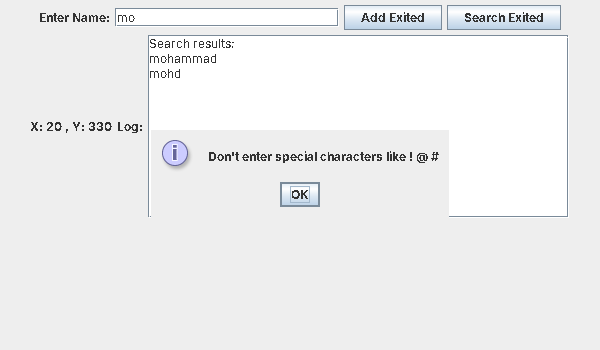
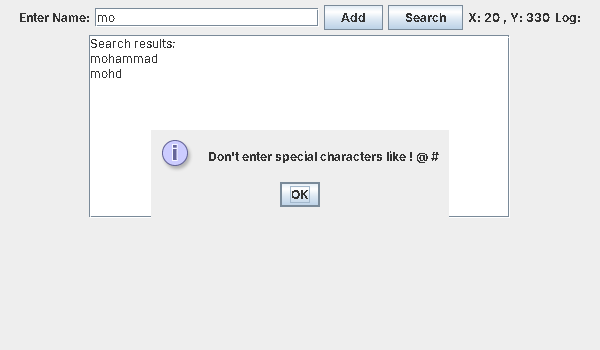
Lab 5: use MouseListener, MouseMotionListener and KeyListener as the handout says
The solution now implements the three listener interfaces in full (no adapters, no ActionListener); clicks are handled in mouseClicked and the button text resets on exit. Explanations, demo, quiz and screenshots updated to match.

Claude-Session: https://claude.ai/code/session_01TWGdni2W9SP9TGQxGu5pif

diff --git a/L05-Other-Events/index.html b/L05-Other-Events/index.html
@@ -1442,7 +1442,7 @@ slider.addChangeListener(new ChangeListener() {
   <div class="slide" id="lab5-solution">
     <p class="added">Added · Full solution (Parts 1–4)</p>
     <h3>The full solution</h3>
-    <p>One NetBeans project <code>Lab5</code>, package <code>com.mycompany.lab5</code>, one class with everything inside <code>main</code>, like the slide examples. I ran it and checked every part: hovering, the coordinates, both click messages, blocking <code>!</code> and <code>@</code>, and the live search. Typing "m" and then "mo" gives exactly the handout's results.</p>
+    <p>One NetBeans project <code>Lab5</code>, package <code>com.mycompany.lab5</code>, one class with everything inside <code>main</code>, like the slide examples. It uses exactly the listeners the handout names: <b>MouseListener</b>, <b>MouseMotionListener</b> and <b>KeyListener</b>, each written out in full (no adapter classes, and no ActionListener, which this handout never asks for). I ran it and checked every part: hovering, the coordinates, both click messages, blocking <code>!</code> and <code>@</code>, and the live search. Typing "m" and then "mo" gives exactly the handout's results.</p>
     <div class="code"><span class="code-label">Lab5.java</span><pre class="java">package com.mycompany.lab5;
 
 import javax.swing.*;
@@ -1453,6 +1453,7 @@ import java.util.ArrayList;
 public class Lab5 {
 
     public static void main(String[] args) {
+        // Part 1: GUI Components and Design
         JFrame frame = new JFrame("Search and Add");
         JPanel panel = new JPanel();
 
@@ -1465,11 +1466,12 @@ public class Lab5 {
         JTextArea logArea = new JTextArea(12, 38);
         JScrollPane scroll = new JScrollPane(logArea);
 
+        // Part 4: ArrayList to store names
         ArrayList&lt;String&gt; names = new ArrayList&lt;&gt;();
         Color normalColor = addButton.getBackground();
 
-        // Part 2.1: MouseListener on both buttons
-        MouseAdapter hover = new MouseAdapter() {
+        // Part 2.1 + 2.3: MouseListener on both buttons
+        MouseListener buttonListener = new MouseListener() {
             public void mouseEntered(MouseEvent e) {
                 JButton b = (JButton) e.getSource();
                 String name = (b == addButton) ? "Add" : "Search";
@@ -1481,39 +1483,43 @@ public class Lab5 {
                 JButton b = (JButton) e.getSource();
                 String name = (b == addButton) ? "Add" : "Search";
                 b.setBackground(normalColor);
-                b.setText(name + " Exited");
+                b.setText(name);
+            }
+
+            public void mouseClicked(MouseEvent e) {
+                JButton b = (JButton) e.getSource();
+                if (b == addButton) {
+                    String name = nameField.getText().trim();
+                    if (!name.isEmpty()) {
+                        names.add(name);
+                    }
+                    JOptionPane.showMessageDialog(frame, "You clicked the Add button");
+                } else {
+                    JOptionPane.showMessageDialog(frame, "You clicked the Search button");
+                }
+            }
+
+            public void mousePressed(MouseEvent e) {
+            }
+
+            public void mouseReleased(MouseEvent e) {
             }
         };
-        addButton.addMouseListener(hover);
-        searchButton.addMouseListener(hover);
+        addButton.addMouseListener(buttonListener);
+        searchButton.addMouseListener(buttonListener);
 
-        // Part 2.2: MouseMotionListener shows the mouse position
-        panel.addMouseMotionListener(new MouseMotionAdapter() {
+        // Part 2.2: MouseMotionListener shows the mouse coordinates
+        panel.addMouseMotionListener(new MouseMotionListener() {
             public void mouseMoved(MouseEvent e) {
                 mouseLabel.setText("X: " + e.getX() + " , Y: " + e.getY());
             }
-        });
 
-        // Part 2.3 + Part 4: what happens when a button is clicked
-        addButton.addActionListener(new ActionListener() {
-            public void actionPerformed(ActionEvent e) {
-                String name = nameField.getText().trim();
-                if (!name.isEmpty()) {
-                    names.add(name);
-                    nameField.setText("");
-                }
-                JOptionPane.showMessageDialog(frame, "You clicked the Add button");
-            }
-        });
-
-        searchButton.addActionListener(new ActionListener() {
-            public void actionPerformed(ActionEvent e) {
-                JOptionPane.showMessageDialog(frame, "You clicked the Search button");
+            public void mouseDragged(MouseEvent e) {
             }
         });
 
         // Part 3 + Part 4: KeyListener on the text field
-        nameField.addKeyListener(new KeyAdapter() {
+        nameField.addKeyListener(new KeyListener() {
             public void keyTyped(KeyEvent e) {
                 char c = e.getKeyChar();
                 if (!Character.isLetterOrDigit(c) &amp;&amp; c != ' ' &amp;&amp; !Character.isISOControl(c)) {
@@ -1530,6 +1536,9 @@ public class Lab5 {
                         logArea.append(n + "\n");
                     }
                 }
+            }
+
+            public void keyPressed(KeyEvent e) {
             }
         });
 
@@ -1549,7 +1558,7 @@ public class Lab5 {
 }</pre></div>
     <div class="fig-row">
       <figure style="flex:1 1 14rem"><div class="plate"><img src="img/sol_lab5_form.png" width="300" loading="lazy" alt="The solution&#x27;s window at start: Enter Name field, Add and Search buttons, X: 20 , Y: 330, Log: and an empty text area."></div><figcaption>At start.</figcaption></figure>
-      <figure style="flex:1 1 14rem"><div class="plate"><img src="img/sol_lab5_hover.png" width="300" loading="lazy" alt="The mouse is on Search: green Search Entered button, Add Exited, and the coordinates label wrapped down next to Log:."></div><figcaption>Mouse on Search (Part 2).</figcaption></figure>
+      <figure style="flex:1 1 14rem"><div class="plate"><img src="img/sol_lab5_hover.png" width="300" loading="lazy" alt="The mouse is on Search: green Search Entered button, Add back to its normal text, and Log: wrapped down next to the text area."></div><figcaption>Mouse on Search (Part 2).</figcaption></figure>
       <figure style="flex:1 1 14rem"><div class="plate"><img src="img/sol_lab5_search.png" width="300" loading="lazy" alt="Enter Name holds mo and the text area shows Search results: mohammad, mohd."></div><figcaption>Typing "mo" after adding six names (Part 4).</figcaption></figure>
       <figure style="flex:1 1 14rem"><div class="plate"><img src="img/sol_lab5_special.png" width="300" loading="lazy" alt="A message dialog over the window: Don&#x27;t enter special characters like ! @ #."></div><figcaption>Typing ! (Part 3).</figcaption></figure>
     </div>
@@ -1570,38 +1579,49 @@ JTextArea logArea = new JTextArea(12, 38);
 JScrollPane scroll = new JScrollPane(logArea);</pre></dt><dd><b>Part 1.</b> Every component in the screenshot, in order. <code>20</code> is the field's width in columns; <code>12, 38</code> are the text area's rows and columns. The scroll pane gives the Log its border and scroll bars when the list gets long.</dd></div>
 <div><dt><pre class="java">ArrayList&lt;String&gt; names = new ArrayList&lt;&gt;();
 Color normalColor = addButton.getBackground();</pre></dt><dd><b>Part 4:</b> "Create an ArrayList to store names". <code>normalColor</code> saves the buttons' default colour so it can be put back when the mouse leaves.</dd></div>
-<div><dt><pre class="java">MouseAdapter hover = new MouseAdapter() {
+<div><dt><pre class="java">MouseListener buttonListener = new MouseListener() {
     public void mouseEntered(MouseEvent e) { ... }
     public void mouseExited(MouseEvent e) { ... }
+    public void mouseClicked(MouseEvent e) { ... }
+    public void mousePressed(MouseEvent e) {
+    }
+    public void mouseReleased(MouseEvent e) {
+    }
 };
-addButton.addMouseListener(hover);
-searchButton.addMouseListener(hover);</pre></dt><dd><b>Part 2.1:</b> "Apply MouseListener to both buttons". <code>MouseAdapter</code> is a class that already implements <code>MouseListener</code> with empty methods, so you only write the two you need (Lecture 6). One listener object is added to both buttons.</dd></div>
+addButton.addMouseListener(buttonListener);
+searchButton.addMouseListener(buttonListener);</pre></dt><dd><b>Part 2.1:</b> "Apply MouseListener to both buttons". This is an anonymous class that implements the <code>MouseListener</code> interface (Lecture 6). An interface makes you write <b>all five</b> of its methods, so <code>mousePressed</code> and <code>mouseReleased</code> are there but empty. The same listener object is added to both buttons.</dd></div>
 <div><dt><pre class="java">JButton b = (JButton) e.getSource();
 String name = (b == addButton) ? "Add" : "Search";</pre></dt><dd><code>getSource()</code> returns the button the mouse is on, cast to <code>JButton</code>. The ternary picks its name, so one listener works for both buttons.</dd></div>
 <div><dt><pre class="java">b.setBackground(Color.GREEN);
 b.setText(name + " Entered");</pre></dt><dd><b>"When the mouse enters a button: change its background color, change its text (e.g., "Add Entered")".</b></dd></div>
 <div><dt><pre class="java">b.setBackground(normalColor);
-b.setText(name + " Exited");</pre></dt><dd><b>"When the mouse exits: reset color and text".</b> The colour goes back to the saved default. The text becomes "Add Exited", as in the handout's screenshots; if your TA wants the original text back instead, use <code>b.setText(name);</code>.</dd></div>
-<div><dt><pre class="java">panel.addMouseMotionListener(new MouseMotionAdapter() {
-    public void mouseMoved(MouseEvent e) {
-        mouseLabel.setText("X: " + e.getX() + " , Y: " + e.getY());
-    }
-});</pre></dt><dd><b>Part 2.2:</b> "Display the mouse coordinates (X, Y) in the label when the mouse moves". <code>mouseMoved</code> runs on every movement (without a button pressed; dragging calls <code>mouseDragged</code>). <code>getX()</code> and <code>getY()</code> are measured from the panel's top-left corner.</dd></div>
-<div><dt><pre class="java">addButton.addActionListener(new ActionListener() {
-    public void actionPerformed(ActionEvent e) {
+b.setText(name);</pre></dt><dd><b>"When the mouse exits: reset color and text".</b> The colour goes back to the saved default and the text back to "Add" or "Search". (The handout's screenshots show "Add Exited" at this point; if your TA wants that, write <code>b.setText(name + " Exited");</code> instead.)</dd></div>
+<div><dt><pre class="java">public void mouseClicked(MouseEvent e) {
+    JButton b = (JButton) e.getSource();
+    if (b == addButton) {
         String name = nameField.getText().trim();
         if (!name.isEmpty()) {
             names.add(name);
-            nameField.setText("");
         }
         JOptionPane.showMessageDialog(frame, "You clicked the Add button");
-    }
-});</pre></dt><dd><b>Part 2.3:</b> "Show a message dialog indicating which button was clicked", and <b>Part 4:</b> "When the user clicks Add: store the entered name in the list". <code>trim()</code> removes spaces at the ends, so an empty box adds nothing. The box is emptied, ready for the next name.</dd></div>
-<div><dt><pre class="java">searchButton.addActionListener(new ActionListener() {
-    public void actionPerformed(ActionEvent e) {
+    } else {
         JOptionPane.showMessageDialog(frame, "You clicked the Search button");
     }
-});</pre></dt><dd><b>Part 2.3</b> for the Search button. The handout gives Search no other job: searching happens automatically while typing (Part 4).</dd></div>
+}</pre></dt><dd><b>Part 2.3:</b> "When a button is clicked: show a message dialog indicating which button was clicked". This is in the handout's mouse part, so it goes in the MouseListener's <code>mouseClicked</code>. <b>Part 4:</b> "When the user clicks Add: store the entered name in the list": the Add branch adds the name to the ArrayList first. <code>trim()</code> removes spaces at the ends, and the <code>isEmpty()</code> check stops a blank name from being stored.</dd></div>
+<div><dt><pre class="java">panel.addMouseMotionListener(new MouseMotionListener() {
+    public void mouseMoved(MouseEvent e) {
+        mouseLabel.setText("X: " + e.getX() + " , Y: " + e.getY());
+    }
+
+    public void mouseDragged(MouseEvent e) {
+    }
+});</pre></dt><dd><b>Part 2.2:</b> "Apply MouseMotionListener: display the mouse coordinates (X, Y) in the label when the mouse moves". The interface has two methods: <code>mouseMoved</code> runs on every movement with no button pressed, and <code>mouseDragged</code> (left empty) runs when a button is held down. <code>getX()</code> and <code>getY()</code> are measured from the panel's top-left corner.</dd></div>
+<div><dt><pre class="java">nameField.addKeyListener(new KeyListener() {
+    public void keyTyped(KeyEvent e) { ... }
+    public void keyReleased(KeyEvent e) { ... }
+    public void keyPressed(KeyEvent e) {
+    }
+});</pre></dt><dd><b>Part 3:</b> "Apply KeyListener to the TextField". The <code>KeyListener</code> interface has three methods. <code>keyTyped</code> does Part 3, <code>keyReleased</code> does the Part 4 search, and <code>keyPressed</code> is left empty.</dd></div>
 <div><dt><pre class="java">public void keyTyped(KeyEvent e) {
     char c = e.getKeyChar();
     if (!Character.isLetterOrDigit(c) &amp;&amp; c != ' ' &amp;&amp; !Character.isISOControl(c)) {
@@ -1632,14 +1652,15 @@ frame.setVisible(true);</pre></dt><dd>Adds the components in the screenshot's or
     <h3>Good to know for this lab</h3>
     <ul class="pts">
       <li><b>The coordinates only change over the empty grey area.</b> Buttons, the text field and the text area have their own mouse listeners, so Java sends the mouse events to them instead of the panel. The handout's numbers (X: 5, Y: 2 and so on) come from the panel's empty space too.</li>
-      <li><b>MouseAdapter or MouseListener?</b> Both count as "applying a MouseListener": <code>addMouseListener</code> takes either. If you write <code>new MouseListener()</code> yourself, Java makes you include all five methods (<code>mouseClicked</code>, <code>mousePressed</code>, <code>mouseReleased</code>, <code>mouseEntered</code>, <code>mouseExited</code>), even empty ones. The same goes for <code>KeyAdapter</code> (three methods) and <code>MouseMotionAdapter</code> (two).</li>
+      <li><b>Why the empty methods?</b> <code>MouseListener</code> (5 methods), <code>MouseMotionListener</code> (2) and <code>KeyListener</code> (3) are interfaces, and a class that implements an interface must write every one of its methods, even the ones it doesn't use. Leave out an empty one and NetBeans shows an error.</li>
+      <li><b>mouseClicked needs a clean click.</b> It runs only when the mouse button is pressed and released in the same spot. If the mouse moves while you click, there is no click event and no message; just click again.</li>
       <li><b>Local variables inside anonymous classes</b> must never be given a new value (they are "effectively final"). That is why the name is read inside each listener instead of being kept in a variable that changes.</li>
     </ul>
   </div>
 
   <div class="demo" id="sa">
     <div class="demo-head"><h3>Try it: Search and Add</h3><span class="added">Added</span></div>
-    <p>Move the mouse over the grey area (or tap it), hover the buttons, add a few names, then type part of a name. Try typing <code>!</code>, <code>@</code> or <code>#</code> too.</p>
+    <p>Move the mouse over the grey area (or tap it) and hover the buttons. Type a name and click Add; clear the box and add a few more, then type part of a name. Try typing <code>!</code>, <code>@</code> or <code>#</code> too.</p>
     <div class="win" style="max-width:36rem"><div class="win-bar"><span>Search and Add</span><i>–□×</i></div>
       <div class="win-body" id="saPanel" style="position:relative;display:flex;flex-wrap:wrap;gap:.4rem .5rem;align-items:center;justify-content:center;align-content:flex-start;min-height:15rem">
         <label for="saName" style="font-weight:700">Enter Name:</label>
@@ -2344,7 +2365,7 @@ if(result == JOptionPane.YES_OPTION){
 
 </main>
 
-<script type="application/json" id="guide-data">{"key": "cs254-l5-done", "quizzes": {"window": [{"q": "Which window method can stop the window from closing (e.g. ask \"Are you sure?\")?", "o": ["windowClosing", "windowClosed", "windowDeactivated", "windowIconified"], "a": 0, "e": "Slide 10."}, {"q": "How many methods does WindowListener have?", "o": ["7", "3", "5", "1"], "a": 0, "e": "Slides 4 and 8."}, {"q": "Why use WindowAdapter instead of WindowListener?", "o": ["You only override the methods you need", "It's faster", "It works on JButton too", "It has more methods"], "a": 0, "e": "Slides 5 and 7."}, {"q": "A class extends WindowAdapter. Can it also extend JFrame?", "o": ["No, Java allows only one superclass", "Yes", "Only if JFrame is abstract", "Only with implements"], "a": 0, "e": "Slide 7: a class extending an adapter cannot extend another class."}, {"q": "Clicking the Minimize button fires…", "o": ["windowIconified", "windowDeiconified", "windowClosed", "windowOpened"], "a": 0, "e": "Slide 12."}, {"q": "Switching to the window with Alt+Tab fires…", "o": ["windowActivated", "windowDeiconified", "windowOpened", "windowClosing"], "a": 0, "e": "Slide 11."}], "key": [{"q": "Pressing and releasing Shift alone fires…", "o": ["keyPressed and keyReleased only", "keyTyped only", "all three", "nothing"], "a": 0, "e": "Slides 16–17: keyTyped only fires for character keys."}, {"q": "Which method is best for detecting the right-arrow key?", "o": ["keyPressed with getKeyCode() == KeyEvent.VK_RIGHT", "keyTyped with getKeyChar() == '→'", "actionPerformed", "focusGained"], "a": 0, "e": "Slides 15 and 18."}, {"q": "Which abstract class implements KeyListener with empty bodies?", "o": ["KeyAdapter", "KeyEvent", "InputEvent", "KeyStroke"], "a": 0, "e": "Slide 13."}, {"q": "In KeyDemo, why is the text area disabled?", "o": ["So the frame keeps the keyboard focus and receives the key events", "To hide it", "Text areas can't show key info otherwise", "To make it bold"], "a": 0, "e": "Slide 19: addKeyListener(this) is on the frame."}, {"q": "Which method tells you if Ctrl or Shift was held?", "o": ["getModifiersEx()", "getKeyChar()", "isActionKey()", "getSource()"], "a": 0, "e": "Slide 15: use *_MASK with it."}], "focus": [{"q": "Focus is…", "o": ["the current target of keyboard input", "the window size", "the selected list item", "the mouse position"], "a": 0, "e": "Slide 22."}, {"q": "In the focus example, what happens to a text field when it gains focus?", "o": ["Its background becomes LIGHT_GRAY", "Its text is cleared", "It becomes disabled", "It turns red"], "a": 0, "e": "Slide 23."}, {"q": "When does a ComponentEvent occur?", "o": ["When a component is resized, moved, shown or hidden", "When a key is pressed", "When text changes", "When a list selection changes"], "a": 0, "e": "Slide 24."}], "listsel": [{"q": "Which method do you write in a ListSelectionListener?", "o": ["valueChanged", "actionPerformed", "itemStateChanged", "stateChanged"], "a": 0, "e": "Slide 25."}, {"q": "Why check <code>!evt.getValueIsAdjusting()<\/code>?", "o": ["To react once, after the series of selection changes finishes", "To check if the list is editable", "To prevent a crash on empty lists", "To allow multiple selection"], "a": 0, "e": "Slide 26."}, {"q": "Is valueChanged called if the user clicks an item that's already selected?", "o": ["No", "Yes, every click", "Only with SINGLE_SELECTION", "Only on double-click"], "a": 0, "e": "Slide 26."}, {"q": "In ListTransferFrame, selecting a state already in the right list…", "o": ["removes it from the right list", "adds it twice", "does nothing", "clears both lists"], "a": 0, "e": "Slide 28: contains → removeElement, else addElement."}], "more": [{"q": "Which DocumentListener method is never called for a JTextField?", "o": ["changedUpdate", "insertUpdate", "removeUpdate", "All are called"], "a": 0, "e": "Slide 30."}, {"q": "How do you attach a DocumentListener to a JTextField?", "o": ["field.getDocument().addDocumentListener(...)", "field.addDocumentListener(...)", "field.addActionListener(...)", "new Document(field)"], "a": 0, "e": "Slide 29."}, {"q": "ItemListener is used with…", "o": ["JCheckBox and JComboBox", "JFrame", "JTextArea", "JLabel"], "a": 0, "e": "Slide 31."}, {"q": "Which method tells you whether an item was selected or deselected?", "o": ["getStateChange()", "getItem()", "getSource()", "isAdjusting()"], "a": 0, "e": "Slide 32: compare with ItemEvent.SELECTED / DESELECTED."}, {"q": "Which listener does a JSlider use?", "o": ["ChangeListener", "ActionListener", "ItemListener", "DocumentListener"], "a": 0, "e": "Slide 33."}], "lab5": [{"q": "Which method runs when the mouse pointer moves onto a button?", "o": ["mouseEntered", "mouseMoved", "mouseClicked", "mousePressed"], "a": 0, "e": "MouseListener.mouseEntered; mouseExited runs when it leaves."}, {"q": "Which listener shows the X and Y position while the mouse moves (no button pressed)?", "o": ["MouseMotionListener, in mouseMoved", "MouseMotionListener, in mouseDragged", "MouseListener, in mouseEntered", "ActionListener"], "a": 0, "e": "mouseDragged is for moving with a button held down."}, {"q": "In <code>keyTyped<\/code>, how do you stop a typed <code>!<\/code> from appearing in the text field?", "o": ["e.consume()", "return;", "nameField.setText(\"\")", "e.getKeyChar() = ' '"], "a": 0, "e": "consume() cancels the key event, so the character is never inserted."}, {"q": "Why does the live search run in <code>keyReleased<\/code> instead of <code>keyTyped<\/code>?", "o": ["In keyTyped the new character isn't in the field yet", "keyTyped doesn't work on JTextField", "keyReleased runs before keyTyped", "keyTyped can't read the text"], "a": 0, "e": "By the time the key is released, getText() includes the new letter."}, {"q": "Typing \"m\" shows Ahmad, Omar, Samer, Adam, mohammad and mohd. Which check gives that?", "o": ["n.toLowerCase().contains(text)", "n.startsWith(text)", "n.equals(text)", "n.endsWith(text)"], "a": 0, "e": "Every one of those names contains an m somewhere; startsWith would only find mohammad and mohd."}], "lab5x": [{"q": "In Lab 5, what does <code>e.consume()<\/code> in keyTyped do?", "o": ["Stops the typed character from reaching the text field", "Clears the field", "Closes the window", "Selects all text"], "a": 0, "e": "It cancels the key event, so @ and # never appear."}, {"q": "<code>(e) -&gt; { ... }<\/code> passed to addListSelectionListener is a…", "o": ["lambda expression", "generic type", "anonymous array", "constructor"], "a": 0, "e": "A short way to create an object of a one-method interface."}, {"q": "Why does the country ItemListener check <code>ItemEvent.SELECTED<\/code>?", "o": ["A combo-box change fires DESELECTED then SELECTED; this reacts once", "SELECTED is the only event a combo fires", "To ignore keyboard input", "To check the policy box"], "a": 0, "e": "Slide 32 and the Lab 5 code."}, {"q": "Why can Cancel crash the Lab 5 program?", "o": ["clearSelection() fires valueChanged with a null selection, and switch(null) throws NullPointerException", "Cancel has no listener", "The frame closes", "The password field is null"], "a": 0, "e": "Add if (Selected == null) return; at the start of the lambda."}]}, "flashcards": [["Adapter class", "Implements a listener interface with empty methods, so you override only what you need: WindowAdapter, KeyAdapter, FocusAdapter, MouseAdapter, ComponentAdapter.", "Slides 5, 7"], ["Listener vs Adapter", "Listener: interface, implement ALL methods, can still extend another class. Adapter: class, override only needed methods, uses up your one superclass.", "Slide 7"], ["WindowListener (7)", "windowOpened, windowClosing, windowClosed, windowIconified, windowDeiconified, windowActivated, windowDeactivated.", "Slides 4, 8"], ["windowClosing vs windowClosed", "Closing: user clicks X; you can cancel. Closed: already closed and released; for cleanup.", "Slide 10"], ["windowDeiconified vs windowActivated", "Deiconified: restored from minimised. Activated: gains focus (click or Alt+Tab).", "Slide 11"], ["windowIconified vs windowDeactivated", "Iconified: minimised to the taskbar. Deactivated: loses focus to another window.", "Slide 12"], ["KeyListener (3)", "keyPressed, keyReleased, keyTyped. Register with addKeyListener.", "Slides 13–14"], ["keyPressed vs keyTyped", "Pressed: any key, use getKeyCode() + VK_*. Typed: character keys only, use getKeyChar().", "Slides 16–17"], ["VK_ constants", "KeyEvent.VK_A … VK_Z, VK_0 … VK_9, VK_F1 …, VK_UP, VK_LEFT, VK_TAB, VK_SPACE, VK_ENTER.", "Slide 15"], ["Modifier masks", "SHIFT_DOWN_MASK, CTRL_DOWN_MASK, ALT_DOWN_MASK, used with getModifiersEx().", "Slide 15"], ["Action key", "A key that produces no character: arrows, F-keys, Home, End… isActionKey() returns true.", "Slide 20"], ["FocusListener", "focusGained, focusLost. Focus = current target of keyboard input.", "Slide 22"], ["ComponentListener", "componentHidden, componentMoved, componentResized, componentShown.", "Slide 24"], ["ListSelectionListener", "valueChanged(ListSelectionEvent). Check !getValueIsAdjusting() to react once.", "Slides 25–26"], ["DocumentListener", "insertUpdate, removeUpdate, changedUpdate (styled docs only). Via getDocument().addDocumentListener.", "Slides 29–30"], ["ItemListener", "itemStateChanged(ItemEvent). getStateChange() == ItemEvent.SELECTED or DESELECTED. JCheckBox, JComboBox.", "Slides 31–32"], ["ChangeListener", "stateChanged(ChangeEvent). JSlider, JSpinner, JTabbedPane, JColorChooser.", "Slide 33"], ["e.consume()", "Cancels a key event so the character never reaches the component.", "Lab 5"], ["Lambda listener", "deptList.addListSelectionListener(e -> { … }); works for any one-method listener interface.", "Lab 5"], ["mouseEntered / mouseExited", "MouseListener methods that run when the pointer moves onto / off a component. Lab 5: turn the button green and set \"Add Entered\", then reset.", "Lab 5"], ["mouseMoved vs mouseDragged", "MouseMotionListener: mouseMoved = moving with no button down; mouseDragged = moving with a button held. e.getX(), e.getY() give the position.", "Lab 5"], ["keyTyped vs keyReleased", "keyTyped: block a character with e.consume() (it isn't in the field yet). keyReleased: the field already holds the new text, so search there.", "Lab 5"]]}</script>
+<script type="application/json" id="guide-data">{"key": "cs254-l5-done", "quizzes": {"window": [{"q": "Which window method can stop the window from closing (e.g. ask \"Are you sure?\")?", "o": ["windowClosing", "windowClosed", "windowDeactivated", "windowIconified"], "a": 0, "e": "Slide 10."}, {"q": "How many methods does WindowListener have?", "o": ["7", "3", "5", "1"], "a": 0, "e": "Slides 4 and 8."}, {"q": "Why use WindowAdapter instead of WindowListener?", "o": ["You only override the methods you need", "It's faster", "It works on JButton too", "It has more methods"], "a": 0, "e": "Slides 5 and 7."}, {"q": "A class extends WindowAdapter. Can it also extend JFrame?", "o": ["No, Java allows only one superclass", "Yes", "Only if JFrame is abstract", "Only with implements"], "a": 0, "e": "Slide 7: a class extending an adapter cannot extend another class."}, {"q": "Clicking the Minimize button fires…", "o": ["windowIconified", "windowDeiconified", "windowClosed", "windowOpened"], "a": 0, "e": "Slide 12."}, {"q": "Switching to the window with Alt+Tab fires…", "o": ["windowActivated", "windowDeiconified", "windowOpened", "windowClosing"], "a": 0, "e": "Slide 11."}], "key": [{"q": "Pressing and releasing Shift alone fires…", "o": ["keyPressed and keyReleased only", "keyTyped only", "all three", "nothing"], "a": 0, "e": "Slides 16–17: keyTyped only fires for character keys."}, {"q": "Which method is best for detecting the right-arrow key?", "o": ["keyPressed with getKeyCode() == KeyEvent.VK_RIGHT", "keyTyped with getKeyChar() == '→'", "actionPerformed", "focusGained"], "a": 0, "e": "Slides 15 and 18."}, {"q": "Which abstract class implements KeyListener with empty bodies?", "o": ["KeyAdapter", "KeyEvent", "InputEvent", "KeyStroke"], "a": 0, "e": "Slide 13."}, {"q": "In KeyDemo, why is the text area disabled?", "o": ["So the frame keeps the keyboard focus and receives the key events", "To hide it", "Text areas can't show key info otherwise", "To make it bold"], "a": 0, "e": "Slide 19: addKeyListener(this) is on the frame."}, {"q": "Which method tells you if Ctrl or Shift was held?", "o": ["getModifiersEx()", "getKeyChar()", "isActionKey()", "getSource()"], "a": 0, "e": "Slide 15: use *_MASK with it."}], "focus": [{"q": "Focus is…", "o": ["the current target of keyboard input", "the window size", "the selected list item", "the mouse position"], "a": 0, "e": "Slide 22."}, {"q": "In the focus example, what happens to a text field when it gains focus?", "o": ["Its background becomes LIGHT_GRAY", "Its text is cleared", "It becomes disabled", "It turns red"], "a": 0, "e": "Slide 23."}, {"q": "When does a ComponentEvent occur?", "o": ["When a component is resized, moved, shown or hidden", "When a key is pressed", "When text changes", "When a list selection changes"], "a": 0, "e": "Slide 24."}], "listsel": [{"q": "Which method do you write in a ListSelectionListener?", "o": ["valueChanged", "actionPerformed", "itemStateChanged", "stateChanged"], "a": 0, "e": "Slide 25."}, {"q": "Why check <code>!evt.getValueIsAdjusting()<\/code>?", "o": ["To react once, after the series of selection changes finishes", "To check if the list is editable", "To prevent a crash on empty lists", "To allow multiple selection"], "a": 0, "e": "Slide 26."}, {"q": "Is valueChanged called if the user clicks an item that's already selected?", "o": ["No", "Yes, every click", "Only with SINGLE_SELECTION", "Only on double-click"], "a": 0, "e": "Slide 26."}, {"q": "In ListTransferFrame, selecting a state already in the right list…", "o": ["removes it from the right list", "adds it twice", "does nothing", "clears both lists"], "a": 0, "e": "Slide 28: contains → removeElement, else addElement."}], "more": [{"q": "Which DocumentListener method is never called for a JTextField?", "o": ["changedUpdate", "insertUpdate", "removeUpdate", "All are called"], "a": 0, "e": "Slide 30."}, {"q": "How do you attach a DocumentListener to a JTextField?", "o": ["field.getDocument().addDocumentListener(...)", "field.addDocumentListener(...)", "field.addActionListener(...)", "new Document(field)"], "a": 0, "e": "Slide 29."}, {"q": "ItemListener is used with…", "o": ["JCheckBox and JComboBox", "JFrame", "JTextArea", "JLabel"], "a": 0, "e": "Slide 31."}, {"q": "Which method tells you whether an item was selected or deselected?", "o": ["getStateChange()", "getItem()", "getSource()", "isAdjusting()"], "a": 0, "e": "Slide 32: compare with ItemEvent.SELECTED / DESELECTED."}, {"q": "Which listener does a JSlider use?", "o": ["ChangeListener", "ActionListener", "ItemListener", "DocumentListener"], "a": 0, "e": "Slide 33."}], "lab5": [{"q": "If you write <code>new MouseListener() { ... }<\/code>, how many methods must it contain?", "o": ["5, even the ones you leave empty", "Only the ones you use", "2", "1"], "a": 0, "e": "mouseClicked, mousePressed, mouseReleased, mouseEntered and mouseExited: an interface's methods must all be written."}, {"q": "Which method runs when the mouse pointer moves onto a button?", "o": ["mouseEntered", "mouseMoved", "mouseClicked", "mousePressed"], "a": 0, "e": "MouseListener.mouseEntered; mouseExited runs when it leaves."}, {"q": "Which listener shows the X and Y position while the mouse moves (no button pressed)?", "o": ["MouseMotionListener, in mouseMoved", "MouseMotionListener, in mouseDragged", "MouseListener, in mouseEntered", "ActionListener"], "a": 0, "e": "mouseDragged is for moving with a button held down."}, {"q": "In <code>keyTyped<\/code>, how do you stop a typed <code>!<\/code> from appearing in the text field?", "o": ["e.consume()", "return;", "nameField.setText(\"\")", "e.getKeyChar() = ' '"], "a": 0, "e": "consume() cancels the key event, so the character is never inserted."}, {"q": "Why does the live search run in <code>keyReleased<\/code> instead of <code>keyTyped<\/code>?", "o": ["In keyTyped the new character isn't in the field yet", "keyTyped doesn't work on JTextField", "keyReleased runs before keyTyped", "keyTyped can't read the text"], "a": 0, "e": "By the time the key is released, getText() includes the new letter."}, {"q": "Typing \"m\" shows Ahmad, Omar, Samer, Adam, mohammad and mohd. Which check gives that?", "o": ["n.toLowerCase().contains(text)", "n.startsWith(text)", "n.equals(text)", "n.endsWith(text)"], "a": 0, "e": "Every one of those names contains an m somewhere; startsWith would only find mohammad and mohd."}], "lab5x": [{"q": "In Lab 5, what does <code>e.consume()<\/code> in keyTyped do?", "o": ["Stops the typed character from reaching the text field", "Clears the field", "Closes the window", "Selects all text"], "a": 0, "e": "It cancels the key event, so @ and # never appear."}, {"q": "<code>(e) -&gt; { ... }<\/code> passed to addListSelectionListener is a…", "o": ["lambda expression", "generic type", "anonymous array", "constructor"], "a": 0, "e": "A short way to create an object of a one-method interface."}, {"q": "Why does the country ItemListener check <code>ItemEvent.SELECTED<\/code>?", "o": ["A combo-box change fires DESELECTED then SELECTED; this reacts once", "SELECTED is the only event a combo fires", "To ignore keyboard input", "To check the policy box"], "a": 0, "e": "Slide 32 and the Lab 5 code."}, {"q": "Why can Cancel crash the Lab 5 program?", "o": ["clearSelection() fires valueChanged with a null selection, and switch(null) throws NullPointerException", "Cancel has no listener", "The frame closes", "The password field is null"], "a": 0, "e": "Add if (Selected == null) return; at the start of the lambda."}]}, "flashcards": [["Adapter class", "Implements a listener interface with empty methods, so you override only what you need: WindowAdapter, KeyAdapter, FocusAdapter, MouseAdapter, ComponentAdapter.", "Slides 5, 7"], ["Listener vs Adapter", "Listener: interface, implement ALL methods, can still extend another class. Adapter: class, override only needed methods, uses up your one superclass.", "Slide 7"], ["WindowListener (7)", "windowOpened, windowClosing, windowClosed, windowIconified, windowDeiconified, windowActivated, windowDeactivated.", "Slides 4, 8"], ["windowClosing vs windowClosed", "Closing: user clicks X; you can cancel. Closed: already closed and released; for cleanup.", "Slide 10"], ["windowDeiconified vs windowActivated", "Deiconified: restored from minimised. Activated: gains focus (click or Alt+Tab).", "Slide 11"], ["windowIconified vs windowDeactivated", "Iconified: minimised to the taskbar. Deactivated: loses focus to another window.", "Slide 12"], ["KeyListener (3)", "keyPressed, keyReleased, keyTyped. Register with addKeyListener.", "Slides 13–14"], ["keyPressed vs keyTyped", "Pressed: any key, use getKeyCode() + VK_*. Typed: character keys only, use getKeyChar().", "Slides 16–17"], ["VK_ constants", "KeyEvent.VK_A … VK_Z, VK_0 … VK_9, VK_F1 …, VK_UP, VK_LEFT, VK_TAB, VK_SPACE, VK_ENTER.", "Slide 15"], ["Modifier masks", "SHIFT_DOWN_MASK, CTRL_DOWN_MASK, ALT_DOWN_MASK, used with getModifiersEx().", "Slide 15"], ["Action key", "A key that produces no character: arrows, F-keys, Home, End… isActionKey() returns true.", "Slide 20"], ["FocusListener", "focusGained, focusLost. Focus = current target of keyboard input.", "Slide 22"], ["ComponentListener", "componentHidden, componentMoved, componentResized, componentShown.", "Slide 24"], ["ListSelectionListener", "valueChanged(ListSelectionEvent). Check !getValueIsAdjusting() to react once.", "Slides 25–26"], ["DocumentListener", "insertUpdate, removeUpdate, changedUpdate (styled docs only). Via getDocument().addDocumentListener.", "Slides 29–30"], ["ItemListener", "itemStateChanged(ItemEvent). getStateChange() == ItemEvent.SELECTED or DESELECTED. JCheckBox, JComboBox.", "Slides 31–32"], ["ChangeListener", "stateChanged(ChangeEvent). JSlider, JSpinner, JTabbedPane, JColorChooser.", "Slide 33"], ["e.consume()", "Cancels a key event so the character never reaches the component.", "Lab 5"], ["Lambda listener", "deptList.addListSelectionListener(e -> { … }); works for any one-method listener interface.", "Lab 5"], ["mouseEntered / mouseExited", "MouseListener methods that run when the pointer moves onto / off a component. Lab 5: turn the button green and set \"Add Entered\", then reset the colour and text.", "Lab 5"], ["mouseMoved vs mouseDragged", "MouseMotionListener: mouseMoved = moving with no button down; mouseDragged = moving with a button held. e.getX(), e.getY() give the position.", "Lab 5"], ["keyTyped vs keyReleased", "keyTyped: block a character with e.consume() (it isn't in the field yet). keyReleased: the field already holds the new text, so search there.", "Lab 5"]]}</script>
 <script>
 (function () {
   var DATA = {};
@@ -2763,7 +2784,7 @@ if(result == JOptionPane.YES_OPTION){
     $("saOk").addEventListener("click", function () { msg.hidden = true; name.focus(); });
     function hover(b, label) {
       b.addEventListener("mouseenter", function () { b.style.background = "#00ff00"; b.textContent = label + " Entered"; out("mouseEntered → setBackground(Color.GREEN), setText(\"" + label + " Entered\")", C.ev); });
-      b.addEventListener("mouseleave", function () { b.style.background = ""; b.textContent = label + " Exited"; out("mouseExited  → normal colour, setText(\"" + label + " Exited\")", C.dim); });
+      b.addEventListener("mouseleave", function () { b.style.background = ""; b.textContent = label; out("mouseExited  → setBackground(normalColor), setText(\"" + label + "\")", C.dim); });
     }
     hover(add, "Add"); hover(search, "Search");
     function moved(e) {
@@ -2775,11 +2796,11 @@ if(result == JOptionPane.YES_OPTION){
     panel.addEventListener("pointerdown", moved);
     add.addEventListener("click", function () {
       var n = name.value.trim();
-      if (n) { names.push(n); name.value = ""; out("actionPerformed (Add) → names.add(\"" + n + "\") → " + JSON.stringify(names), C.ok); }
-      else out("actionPerformed (Add) → box is empty, nothing stored", C.dim);
+      if (n) { names.push(n); out("mouseClicked (Add) → names.add(\"" + n + "\") → " + JSON.stringify(names), C.ok); }
+      else out("mouseClicked (Add) → box is empty, nothing stored", C.dim);
       dialog("You clicked the Add button");
     });
-    search.addEventListener("click", function () { out("actionPerformed (Search)", C.ok); dialog("You clicked the Search button"); });
+    search.addEventListener("click", function () { out("mouseClicked (Search)", C.ok); dialog("You clicked the Search button"); });
     name.addEventListener("beforeinput", function (e) {
       if (!e.data) return;
       var bad = e.data.split("").filter(function (c) { return !/[\p{L}\p{N} ]/u.test(c); });
